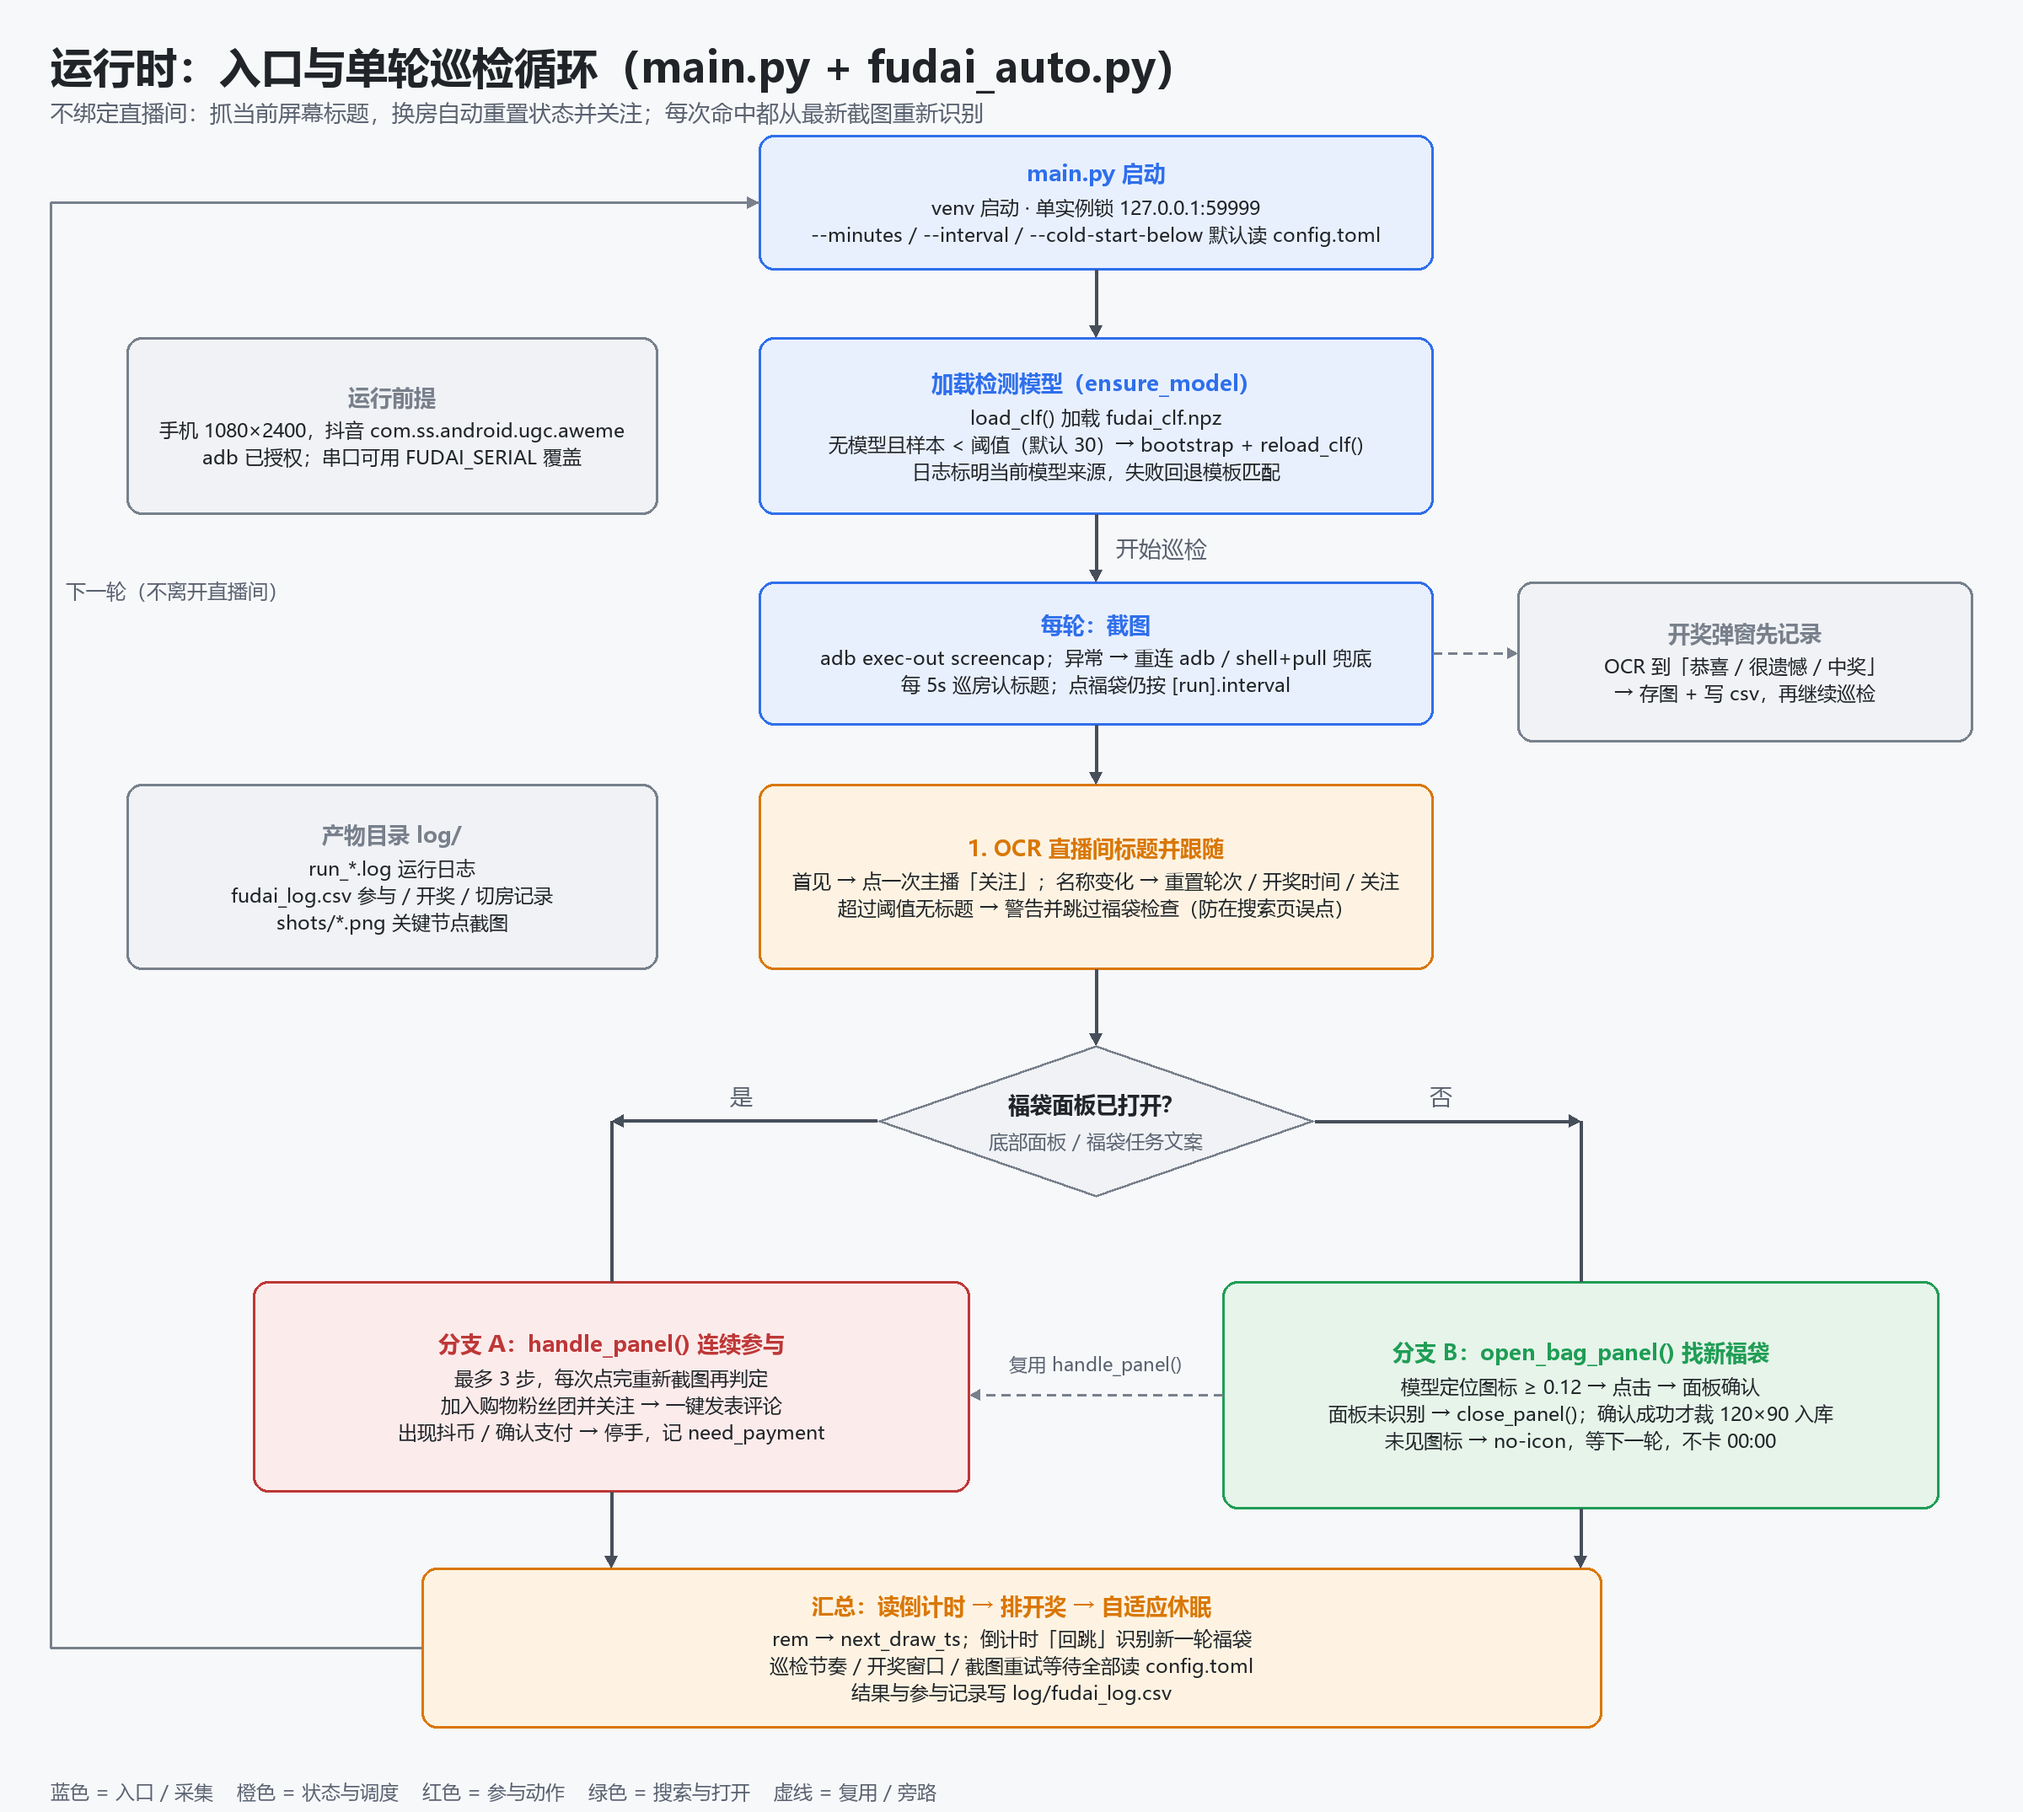
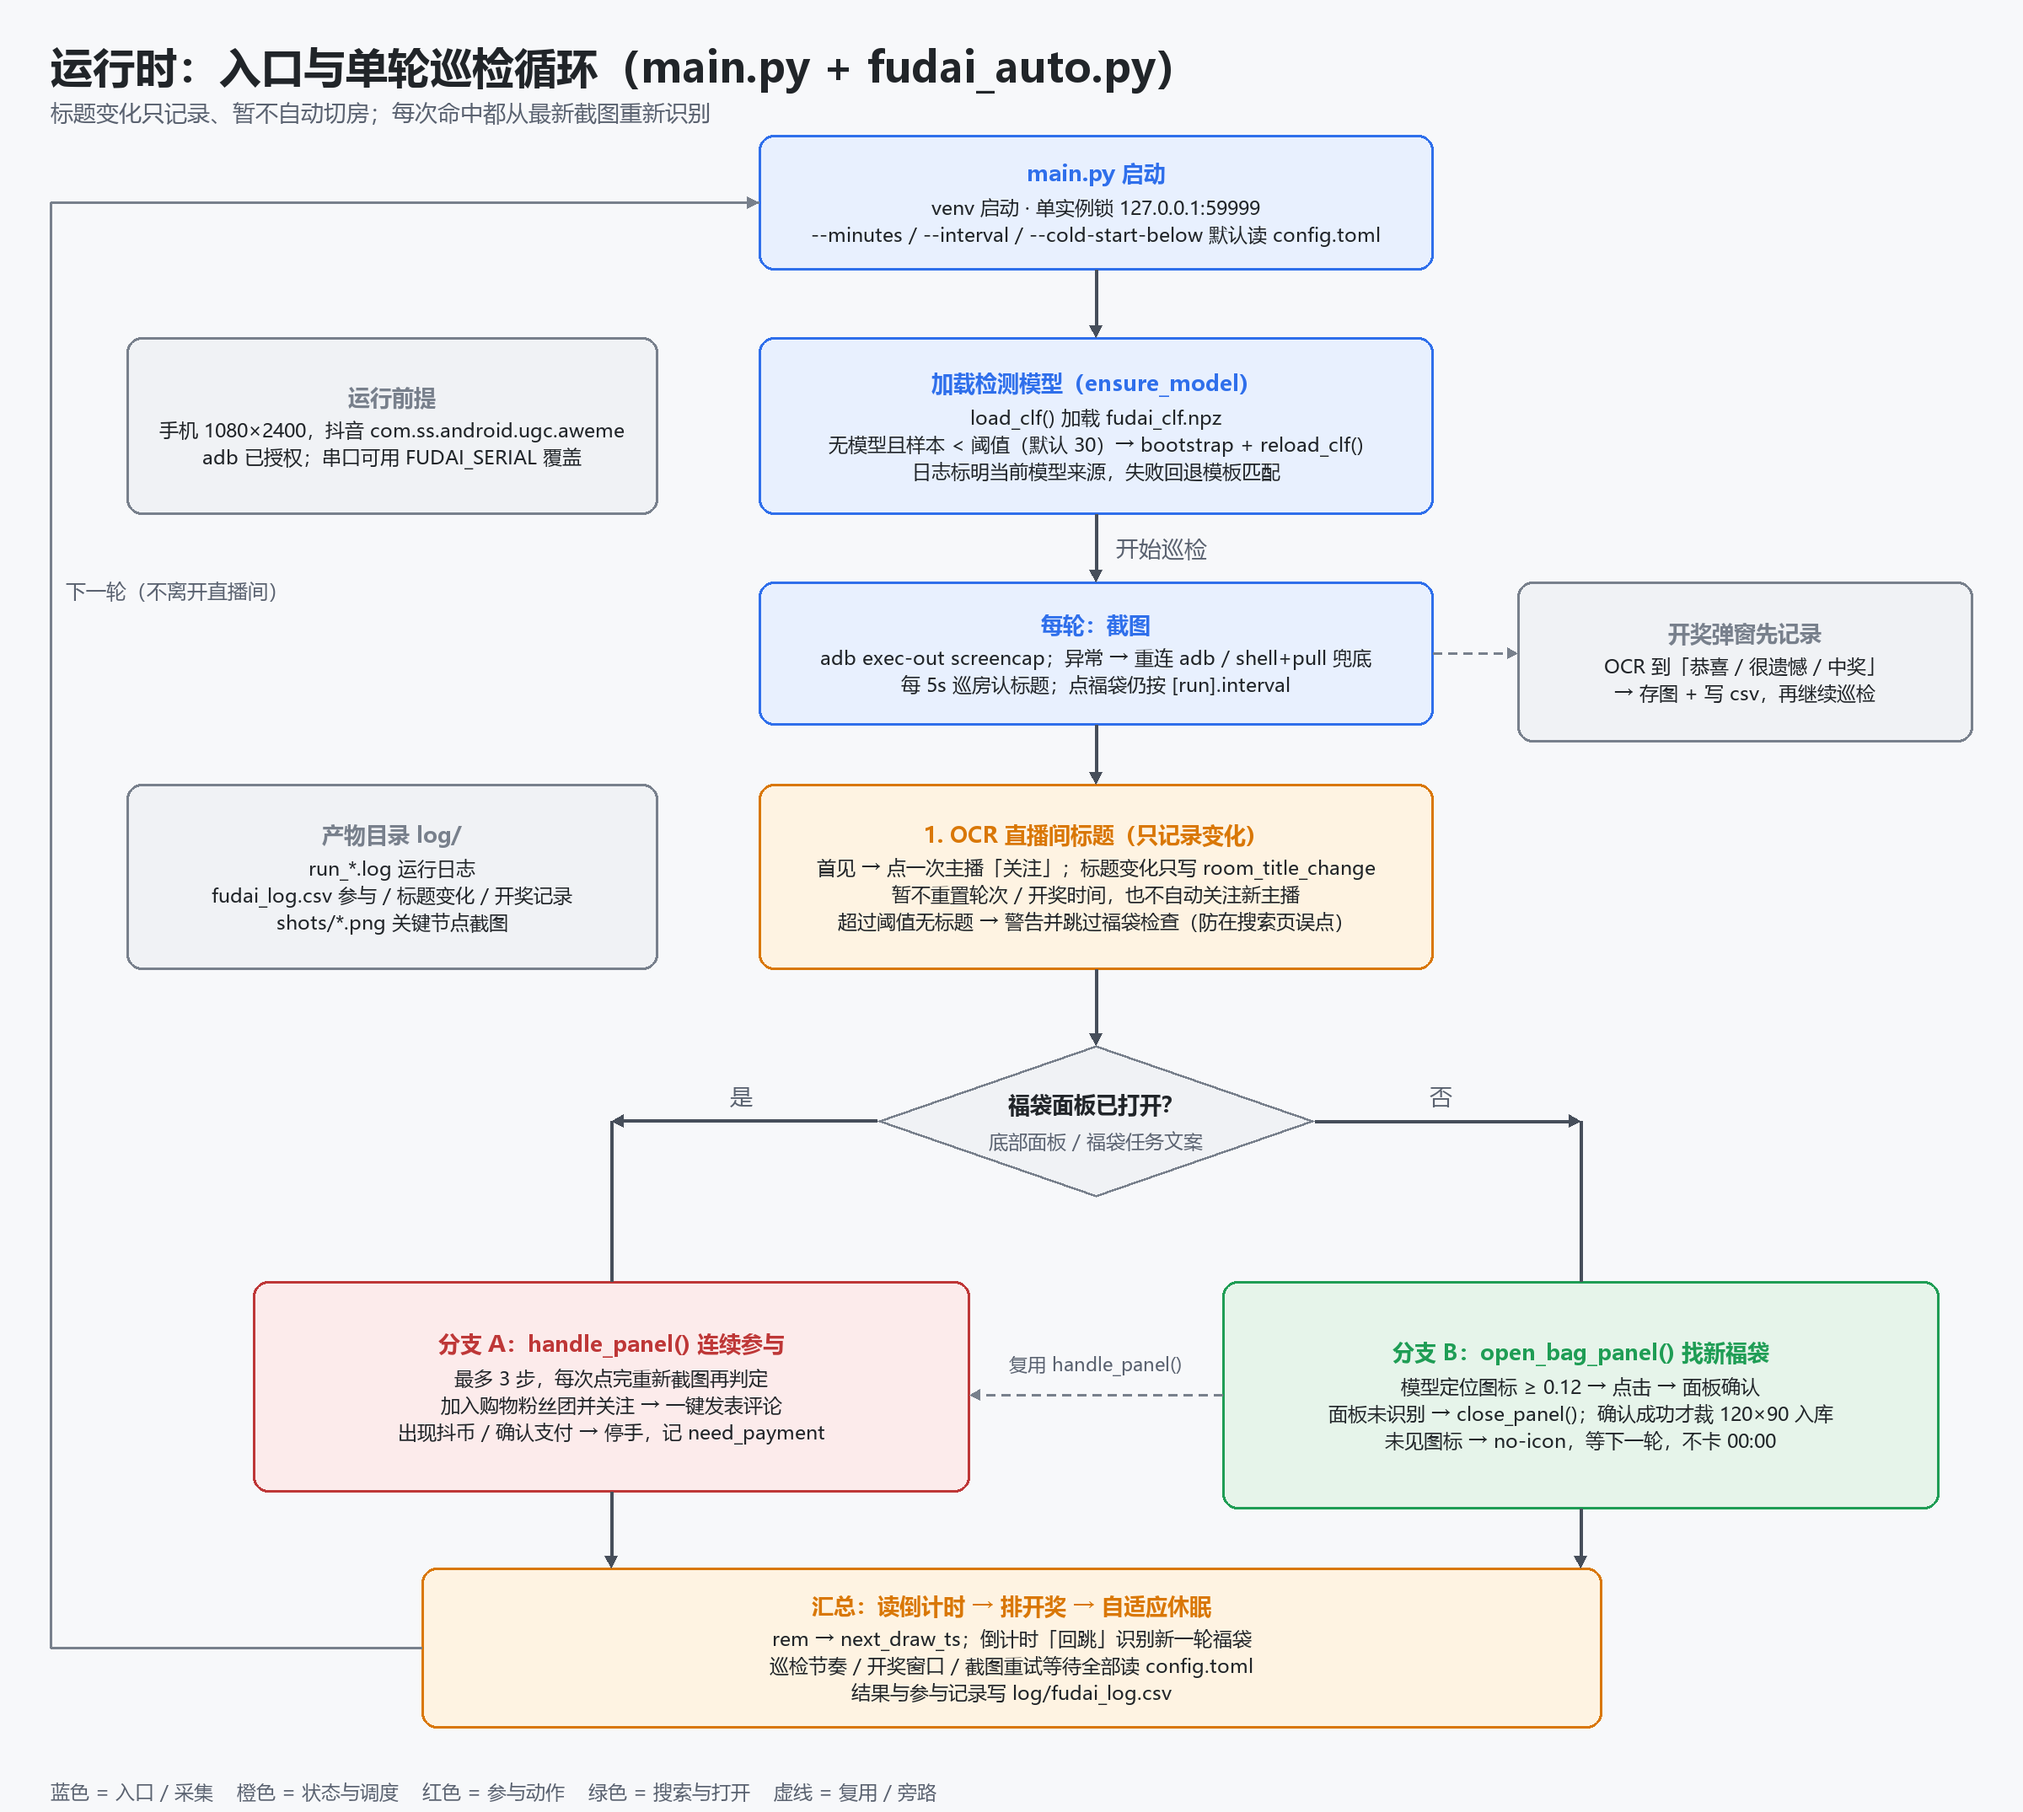
feat: 直播间标题变化只检测记录，暂不自动切房

diff --git a/main.py b/main.py
@@ -18,6 +18,16 @@ from difflib import SequenceMatcher
 import fudai_auto as fa
 
 
+def same_room(a, b, threshold=0.86):
+    """判断两次 OCR 标题是否同一房间：容忍前后缀抖动（如「文英菲克…7PR」）"""
+    if a == b:
+        return True
+    short, long = sorted((a, b), key=len)
+    if len(short) >= 4 and short in long:
+        return True
+    return SequenceMatcher(None, a, b).ratio() >= threshold
+
+
 def ensure_model(cold_start_below):
     """样本数低于阈值且没有可用检测模型时，用种子图自动冷启动"""
     n = len(glob.glob(os.path.join(fa.DATASET_ICONS, "*.png")))
@@ -136,27 +146,14 @@ def main():
                     if r == "followed":
                         img = fa.shot()
             elif name != cur_room:
-                # OCR 尾字/标点抖动（如「南山先生」→「南山先生m」）不算切房
-                ratio = SequenceMatcher(None, name, cur_room).ratio()
-                if ratio >= float(fa.cfg("detect", "room_similarity")):
+                # 暂时只检测标题变化，不自动切房：不重置轮次、不关注新主播
+                if same_room(name, cur_room, float(fa.cfg("detect", "room_similarity"))):
                     cur_room = max((cur_room, name), key=len)
                     fa.ROOM_NAME = cur_room
                 else:
-                    fa.log(f"直播间切换: {cur_room} -> {name}，状态已重置，开始在新直播间蹲福袋")
-                    fa.log_csv("room_switch", f"{cur_room} -> {name}")
+                    fa.log(f"直播间标题变化: {cur_room} -> {name}（仅记录，暂不自动切换）")
+                    fa.log_csv("room_title_change", f"{cur_room} -> {name}")
                     cur_room = name
-                    next_draw_ts = 0.0
-                    next_bag_ts = 0.0
-                    draw_watched = True
-                    last_rem = None
-                    last_rem_ts = 0.0
-                    cycle_count = 1
-                    fa.save(img, "room_switch")
-                    time.sleep(float(fa.cfg("detect", "room_switch_settle_seconds")))
-                    r = fa.follow_anchor(img)
-                    if r:
-                        fa.log_csv("follow", f"{name} {r}")
-                    continue
             if args.room and args.room not in name and not room_warned:
                 fa.log(
                     f"提示: 当前直播间为「{name}」，与 --room「{args.room}」不一致；已按当前直播间继续"

diff --git a/docs/make_flowchart.py b/docs/make_flowchart.py
@@ -193,7 +193,7 @@ def runtime_loop():
     fb = f(26, True)
     fbd = f(23)
     label(d, (60, 45), "运行时：入口与单轮巡检循环（main.py + fudai_auto.py）", ft, INK, "la")
-    label(d, (60, 115), "不绑定直播间：抓当前屏幕标题，换房自动重置状态并关注；每次命中都从最新截图重新识别", fs, MUTED, "la")
+    label(d, (60, 115), "标题变化只记录、暂不自动切房；每次命中都从最新截图重新识别", fs, MUTED, "la")
 
     # 入口
     box(d, (900, 160, 1700, 320), "main.py 启动",
@@ -211,8 +211,8 @@ def runtime_loop():
     arrow(d, (1300, 610), (1300, 690))
     label(d, (1324, 650), "开始巡检", fs, MUTED, "lm")
 
-    box(d, (900, 930, 1700, 1150), "1. OCR 直播间标题并跟随",
-        "首见 → 点一次主播「关注」；名称变化 → 重置轮次 / 开奖时间 / 关注\n超过阈值无标题 → 警告并跳过福袋检查（防在搜索页误点）",
+    box(d, (900, 930, 1700, 1150), "1. OCR 直播间标题（只记录变化）",
+        "首见 → 点一次主播「关注」；标题变化只写 room_title_change\n暂不重置轮次 / 开奖时间，也不自动关注新主播\n超过阈值无标题 → 警告并跳过福袋检查（防在搜索页误点）",
         ORANGE, ORANGE_BG, fb, fbd)
     arrow(d, (1300, 860), (1300, 930))
 
@@ -255,7 +255,7 @@ def runtime_loop():
         "手机 1080×2400，抖音 com.ss.android.ugc.aweme\nadb 已授权；串口可用 FUDAI_SERIAL 覆盖",
         GRAY, GRAY_BG, fb, fbd)
     box(d, (150, 930, 780, 1150), "产物目录 log/",
-        "run_*.log 运行日志\nfudai_log.csv 参与 / 开奖 / 切房记录\nshots/*.png 关键节点截图",
+        "run_*.log 运行日志\nfudai_log.csv 参与 / 标题变化 / 开奖记录\nshots/*.png 关键节点截图",
         GRAY, GRAY_BG, fb, fbd)
     box(d, (1800, 690, 2340, 880), "开奖弹窗先记录",
         "OCR 到「恭喜 / 很遗憾 / 中奖」\n→ 存图 + 写 csv，再继续巡检",

diff --git a/fudai_auto.py b/fudai_auto.py
@@ -42,7 +42,6 @@ DEFAULT_CONFIG = {
         "shot_error_log_every_seconds": 30.0,
         "room_check_seconds": 5.0,
         "room_similarity": 0.86,
-        "room_switch_settle_seconds": 2.0,
         "room_missing_warn_seconds": 180.0,
         "default_draw_seconds": 750.0,
         "new_cycle_jump_seconds": 90.0,

diff --git a/README.md b/README.md
@@ -41,8 +41,7 @@ python -m venv .venv
 | `[detect]` | `shot_retry_seconds` | 10 | 截图异常后的重试等待 |
 | | `shot_error_log_every_seconds` | 30 | 连续截图异常的日志节流 |
 | | `room_check_seconds` | 5 | 直播间标题巡房间隔（只认房间，不点福袋） |
-| | `room_similarity` | 0.86 | 标题相似度≥该值视为同一房间，防 OCR 尾字抖动误切房 |
-| | `room_switch_settle_seconds` | 2 | 切房后等待再截图/关注 |
+| | `room_similarity` | 0.86 | 标题相似度≥该值视为同一房间，防 OCR 尾字抖动误判 |
 | | `room_missing_warn_seconds` | 180 | 连续多久没标题就警告 |
 | | `default_draw_seconds` | 750 | 读不到倒计时的默认排期 |
 | | `new_cycle_jump_seconds` | 90 | 倒计时回跳多少秒算新一轮 |
@@ -59,7 +58,7 @@ python -m venv .venv
 
 配置写错或未知键会在启动时打印 `[config]` 提示，并回落到内置默认值。
 
-巡房与福袋检测是分开的：每 `room_check_seconds`（默认 5 秒）截图 + OCR 标题，切房后立即重置并关注；点福袋仍按 `interval` 和 `[pacing]` 的节奏，不会因为巡房变快而频繁点开面板。
+巡房与福袋检测是分开的：每 `room_check_seconds`（默认 5 秒）截图 + OCR 标题，标题变化只写日志（`room_title_change`），**暂时不自动切房、不重置状态、不关注新主播**；点福袋仍按 `interval` 和 `[pacing]` 的节奏，不会因为巡房变快而频繁点开面板。
 
 ## 训练
 
@@ -116,7 +115,7 @@ adb devices                       # 确认设备已授权
 
 ## 工作机制
 
-1. 每轮截图，先 OCR 直播间标题：首见点一次主播「关注」；切房记 `直播间切换: A -> B`，重置轮次/开奖时间/关注状态继续蹲；连续 3 分钟无标题会警告并跳过福袋检查。
+1. 每轮截图，先 OCR 直播间标题：首见点一次主播「关注」；标题变化只记 `room_title_change: A -> B`，暂不自动切房、不重置轮次/开奖时间；连续超过阈值无标题会警告并跳过福袋检查。
 2. 面板已打开则直接处理任务；否则在左上角定位福袋浮标：优先用 `fudai_clf.npz`（HOG+颜色直方图线性分类器）滑窗打分，命中分 ≥0.12 即视为福袋；模型缺失/打分失败回退模板匹配、OCR 倒计时反推。
 3. 打开福袋面板后最多连点 3 步，每步都重新截图再判定：
    - 出现「一键发表评论」→ 点击完成福袋任务
@@ -143,7 +142,7 @@ requirements.txt     依赖
 config.toml          检测节奏/开奖观察/采样节流配置（CLI 可覆盖）
 log/                 运行日志与截图
 log/run_*.log        每次运行的文本日志
-log/fudai_log.csv    参与/切房/开奖结果记录
+log/fudai_log.csv    参与/标题变化/开奖结果记录
 log/shots/           关键节点截图（同时作为检测模型负样本来源）
 data/fudai/          福袋识别训练集（本机产物，不入库）
 data/fudai/icons/    图标样本 png（120x90，以福袋主体为中心）
